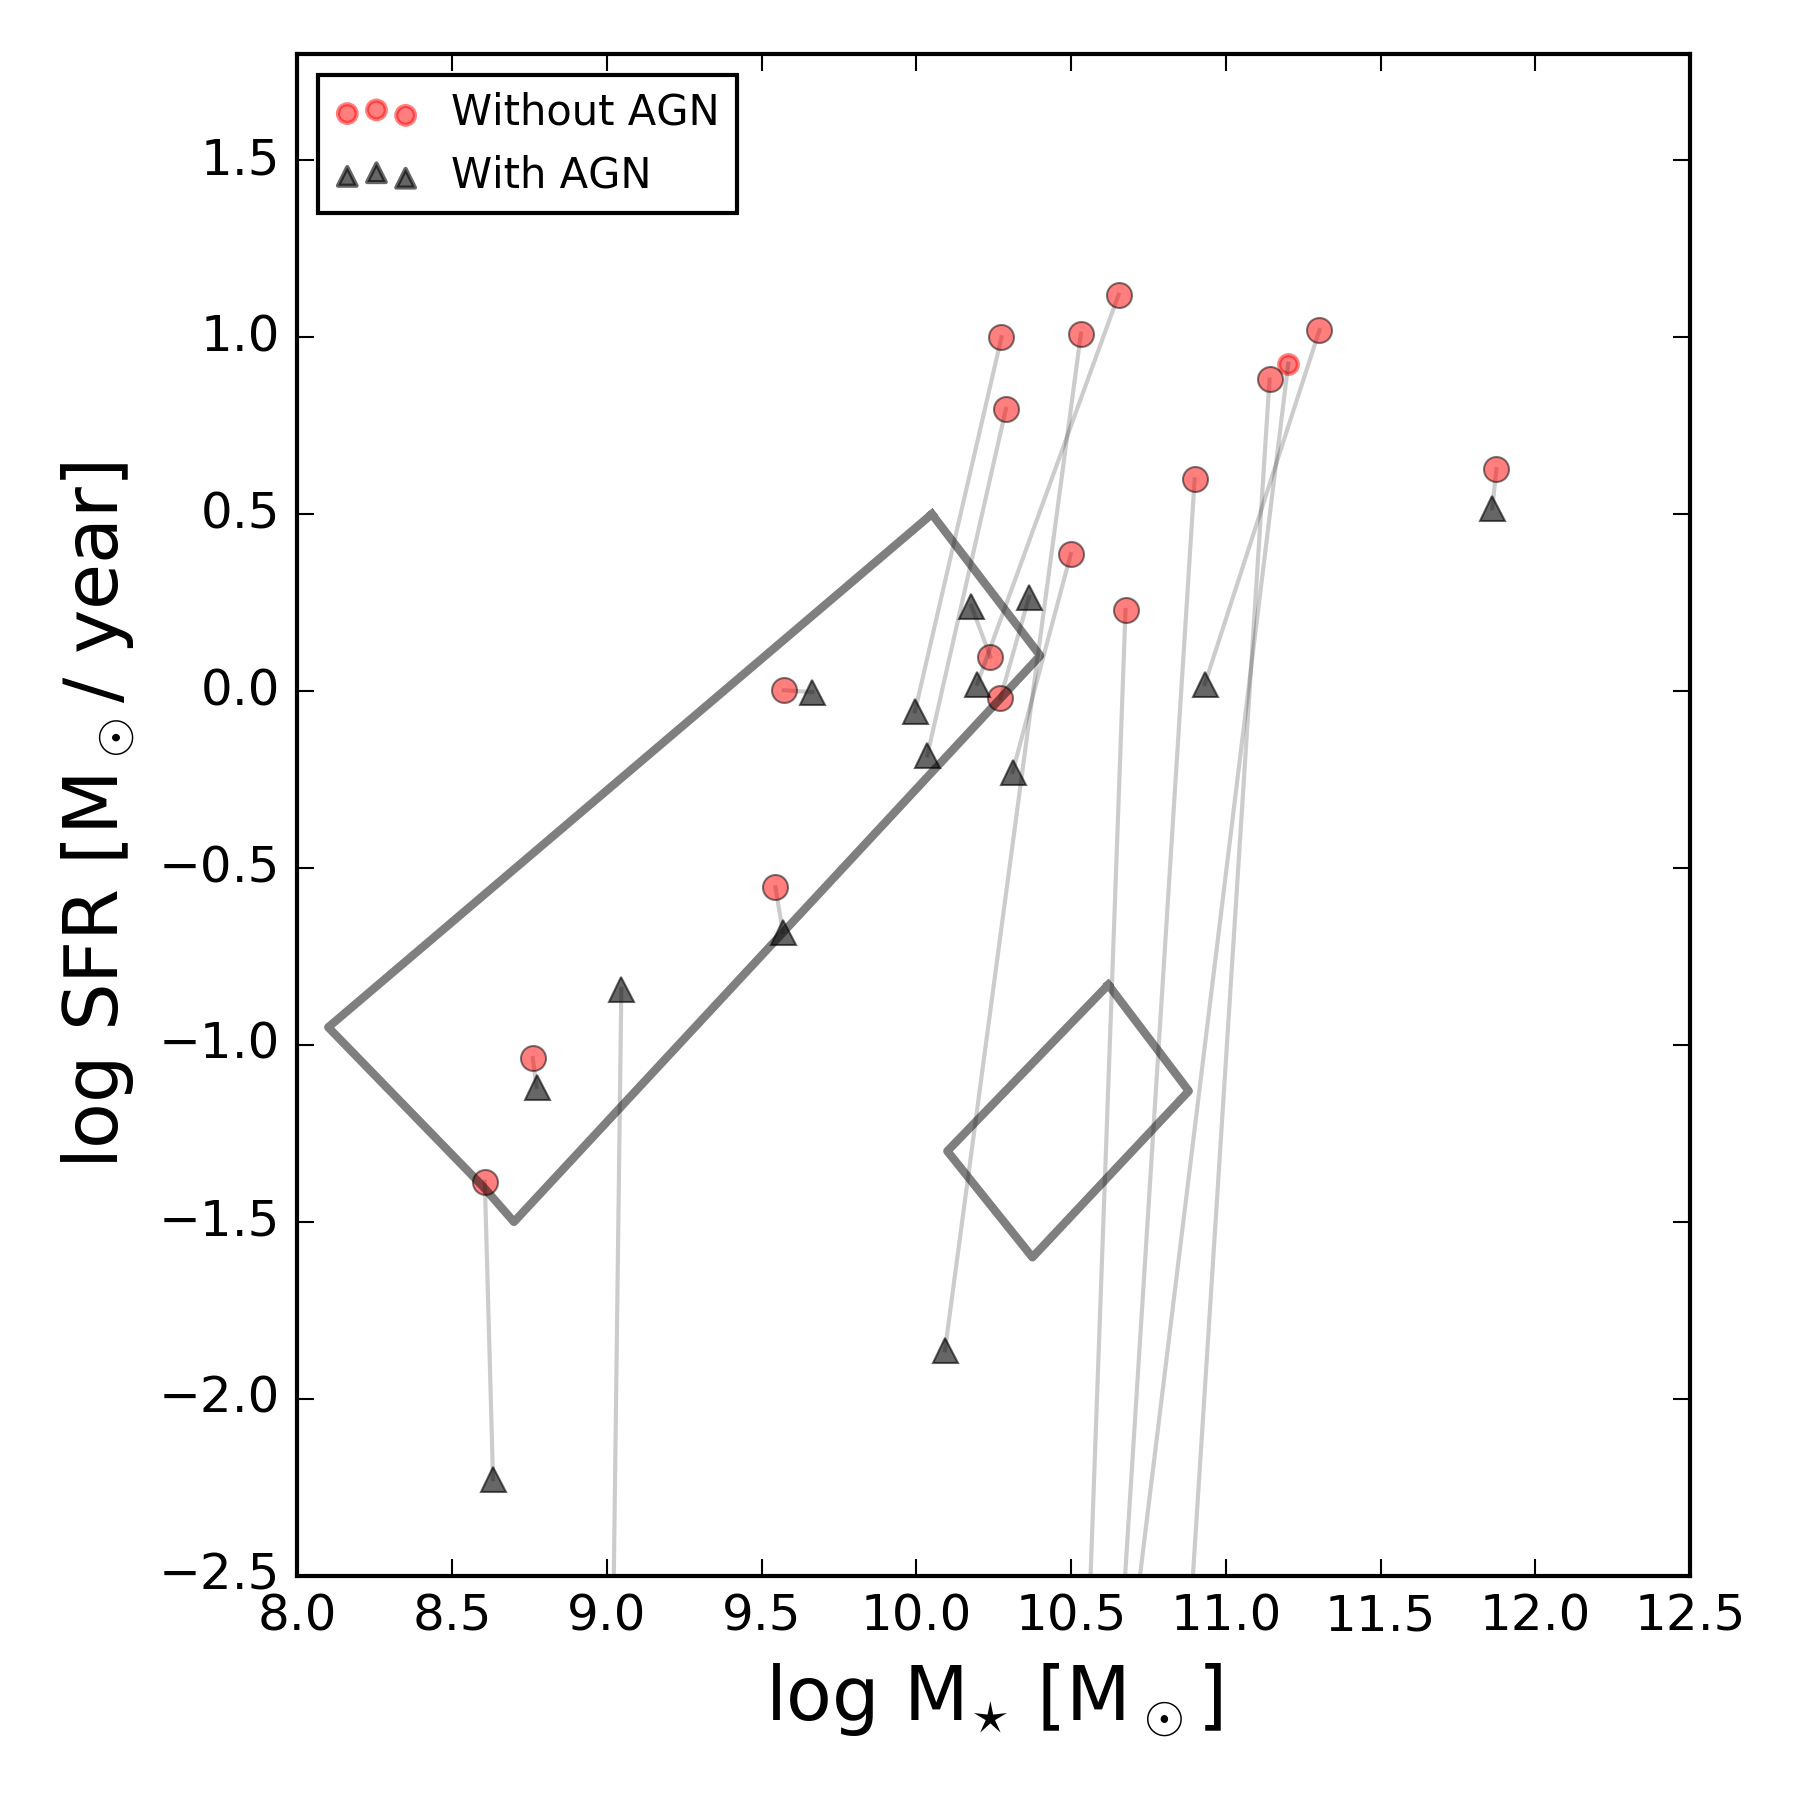
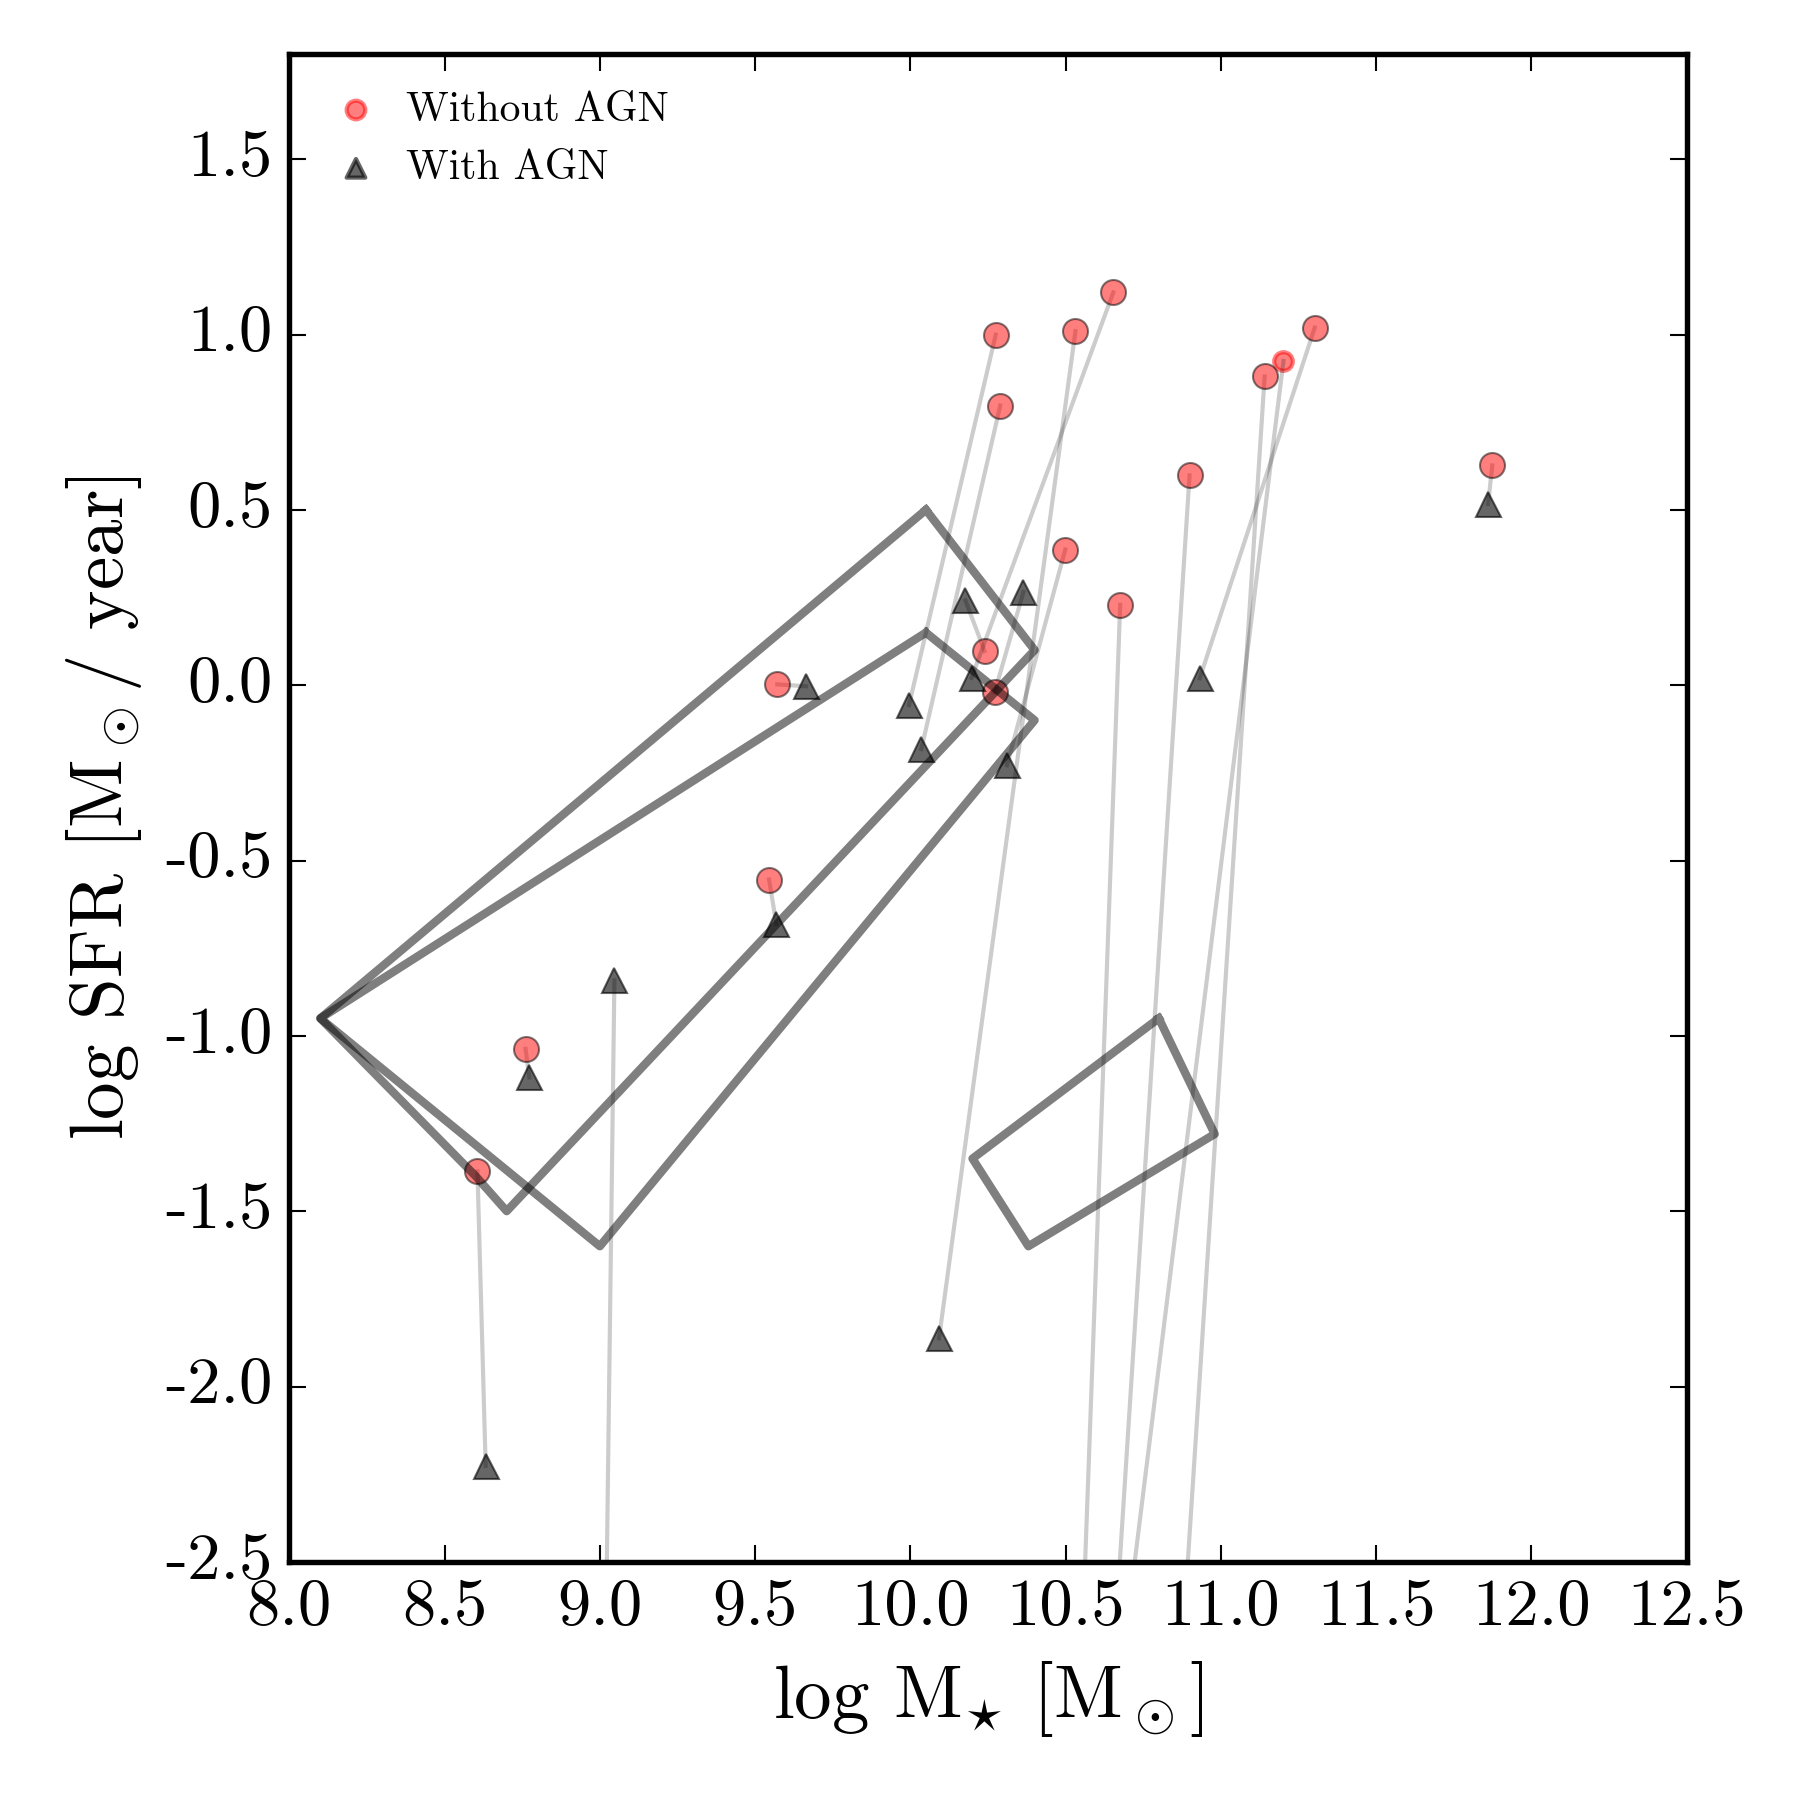
test new renzini box

diff --git a/2_mssfrWandWobh.py b/2_mssfrWandWobh.py
@@ -7,6 +7,25 @@ import matplotlib.patches as mpatches
 import matplotlib.lines as mlines
 import copy
 from scipy.optimize import curve_fit
+import matplotlib as mpl
+mpl.rcParams['axes.linewidth'] = 1.3
+mpl.rcParams['xtick.labelsize'] = 16
+mpl.rcParams['ytick.labelsize'] = 16
+mpl.rcParams['axes.labelsize'] = 18
+mpl.rcParams['legend.numpoints'] = 1
+mpl.rcParams['legend.scatterpoints'] = 1
+mpl.rcParams['legend.fontsize'] = 14
+mpl.rcParams['legend.frameon'] = False
+mpl.rcParams['legend.handlelength'] = 1.4
+mpl.rcParams['legend.handletextpad'] = 0.5
+#mpl.rcParams['text.usetex'] = True
+mpl.rcParams['font.family'] = 'serif'
+mpl.rcParams['font.serif'] = 'cmr10'
+mpl.rcParams['mathtext.fontset'] = 'cm'
+#mpl.rcParams['mathtext.rm'] = 'serif'
+mpl.rcParams['pdf.fonttype'] = 42
+mpl.rcParams['ps.fonttype'] = 42
+mpl.rcParams['axes.unicode_minus']=False
 fileLocationBH = '/scratch/mb6605/gasol_32_180423/'
 
 #z0NIHAO_BHproperties.pkl
@@ -124,15 +143,24 @@ popt, pcov = curve_fit(func, mstarAll, sfrAll)
 SFR0 = popt[0]
 slope = popt[1]
 '''
-
 x = [10.62, 10.88, 10.375, 10.1, 10.62]
 y = [-0.83, -1.13, -1.6, -1.3, -0.83]
-plt.plot(x,y, '-', color='k', linewidth=2, alpha =0.5)
+#plt.plot(x,y, '-', color='k', linewidth=2, alpha =0.5)
 #draw high density triangle for blue cloud
 x = [ 10.05, 10.4, 8.7, 8.6, 8.1, 10.05] #3rd to last 10**8.25
 y = [ 0.5, 0.1, -1.5, -1.4, -.95, 0.5] # 10**-1.25
+plt.plot(x,y, '-', color='k', linewidth=2, alpha =0.5)
+
+#bottom right box
+#
+x = [10.8, 10.98, 10.38, 10.2, 10.8]
+y = [-.95, -1.28, -1.6, -1.35, -.95]
+plt.plot(x,y, '-', color='k', linewidth=2, alpha =0.5)
+
+#top left box
+x = [ 10.05, 10.4, 9.0, 8.1, 10.05] #3rd to last 10**8.25
+y = [ 0.15, -0.1, -1.6, -.95, 0.15] # 10**-1.25
 plt.plot(x,y, '-', color='k', linewidth=2, alpha = 0.5)
-#these are redshift 0.02 - 0.085
 
 
 

diff --git a/1_mssfrLogBefore.py b/1_mssfrLogBefore.py
@@ -9,9 +9,27 @@ import copy
 from scipy.optimize import curve_fit
 from scipy import stats
 fileLocationBH = '/scratch/mb6605/gasol_32_180423/'
-plt.rcParams['legend.numpoints'] = 1
-plt.rcParams['legend.scatterpoints'] = 1
 
+import matplotlib as mpl
+
+mpl.rcParams['axes.linewidth'] = 1.3
+mpl.rcParams['xtick.labelsize'] = 16
+mpl.rcParams['ytick.labelsize'] = 16
+mpl.rcParams['axes.labelsize'] = 18
+mpl.rcParams['legend.numpoints'] = 1
+mpl.rcParams['legend.scatterpoints'] = 1
+mpl.rcParams['legend.fontsize'] = 14
+mpl.rcParams['legend.frameon'] = False
+mpl.rcParams['legend.handlelength'] = 1.4
+mpl.rcParams['legend.handletextpad'] = 0.5
+#mpl.rcParams['text.usetex'] = True
+mpl.rcParams['font.family'] = 'serif'
+mpl.rcParams['font.serif'] = 'cmr10'
+mpl.rcParams['mathtext.fontset'] = 'cm'
+#mpl.rcParams['mathtext.rm'] = 'serif'
+mpl.rcParams['pdf.fonttype'] = 42
+mpl.rcParams['ps.fonttype'] = 42
+mpl.rcParams['axes.unicode_minus']=False
 
 #sfrArray, mStarArray = pickle.load(open("pickles/sfrAndMstarArray.pkl", "rb"))
 galDict = pickle.load(open("pickles/ALLjanNEW_NIHAOproperties.pkl", "rb"))
